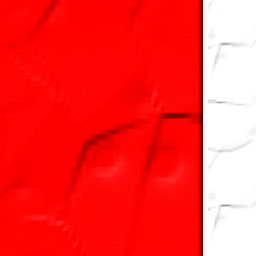
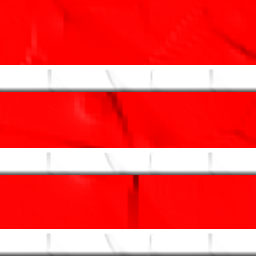
cenario

diff --git a/library/MyQuad.js b/library/MyQuad.js
@@ -13,6 +13,8 @@ class MyQuad extends CGFobject
 		this.y1 = y1;
 		this.x2 = x2;
 		this.y2 = y2;
+		this.x = (x2-x1)/4;
+		this.y = (y2-y1)/4; 
 		this.ls=ls;
 		this.lt=lt;
 		this.initBuffers();
@@ -23,33 +25,50 @@ class MyQuad extends CGFobject
 	initBuffers()
 	{
 		this.vertices = [
-			this.x1, this.y1, 0,
+			/*this.x1, this.y1, 0,
 			this.x2, this.y1, 0,
 			this.x1, this.y2, 0,
-			this.x2, this.y2, 0
+			this.x2, this.y2, 0*/
 				];
 
 		this.indices = [
-				0, 1, 2,
+				/*0, 1, 2,
 				3, 2, 1,
 				2, 3, 1,
 				3, 0, 2,
-				0, 2, 1
+				0, 2, 1*/
 
 			];
 		this.texCoords = [
-				0,this.lt,
+				/*0,this.lt,
 				this.ls,this.lt,
 				0,0,
-				this.ls,0
+				this.ls,0*/
 		];
 		this.primitiveType=this.scene.gl.TRIANGLES;
 		this.normals = [
+				/*0, 0, 1,
 				0, 0, 1,
 				0, 0, 1,
-				0, 0, 1,
-				0, 0, 1
+				0, 0, 1*/
 				];
+
+		for(var i=0;i<5;i++){
+			for(var k=0; k<5;k++){
+				this.vertices.push(this.x1+this.x*k,this.y1+this.y*i,0);
+				this.normals.push(0,0,1);
+				this.texCoords.push(this.ls/4*k,this.lt-this.lt/4*i);
+			}
+		}
+		for(var i=0;i<4;i++){
+			for(var k=0; k<4;k++){
+				this.indices.push(k+5*i,k+5*i+1,k+5*i+5,k+5*i+6,k+5*i+5,k+5*i+1);
+			}
+		}
+		
 		this.initGLBuffers();
+
+		
+
 	};
 };

diff --git a/MySceneGraph.js b/MySceneGraph.js
@@ -1852,7 +1852,7 @@ class MySceneGraph {
            switch(name){
                case "rectangle":
                 this.scene.square=new MyQuad(this.scene,component[4][i][2][0],component[4][i][2][1],component[4][i][2][2],
-                     component[4][i][2][3],component[2][component[2].length-3],component[2][component[2].length-2]);
+                     component[4][i][2][3],texture[2],texture[3]);
                 this.scene.square.display();     
                
                break;
@@ -1860,7 +1860,7 @@ class MySceneGraph {
                case "triangle":
                 this.scene.triangle=new MyTriangle(this.scene,component[4][i][2][0],component[4][i][2][1],component[4][i][2][6],
                     component[4][i][2][2],component[4][i][2][3],component[4][i][2][7], component[4][i][2][4],
-                    component[4][i][2][5],component[4][i][2][8],component[2][component[2].length-2],component[2][component[2].length-1]);    
+                    component[4][i][2][5],component[4][i][2][8],texture[2],texture[3]);    
                 this.scene.triangle.display();
                break;
 

diff --git a/library/Wheel.js b/library/Wheel.js
@@ -15,23 +15,17 @@ class Wheel extends CGFobject
 		var degToRad=0.01745329251;
 		this.scene.translate(0,0,-0.25);
 		this.scene.pushMatrix();
-		this.scene.newmaterial=new CGFappearance(this.scene);
-        this.scene.newmaterial.loadTexture("./scenes/images/vidral.jpg");
-        this.scene.newmaterial.apply();
+	
             super.display();
 		this.scene.popMatrix();
         this.scene.pushMatrix();
-		this.scene.newmaterial=new CGFappearance(this.scene);
-        this.scene.newmaterial.loadTexture("./scenes/images/vidral.jpg");
-        this.scene.newmaterial.apply();
+		
             this.cilindro.display();
 		this.scene.popMatrix();
 		this.scene.pushMatrix();
 			this.scene.translate(0,0,1);
 			this.scene.rotate(180*degToRad,1,0,0);
-		this.scene.newmaterial=new CGFappearance(this.scene);
-        this.scene.newmaterial.loadTexture("./scenes/images/vidral.jpg");
-        this.scene.newmaterial.apply();
+	
             super.display();
 		this.scene.popMatrix();
     }
